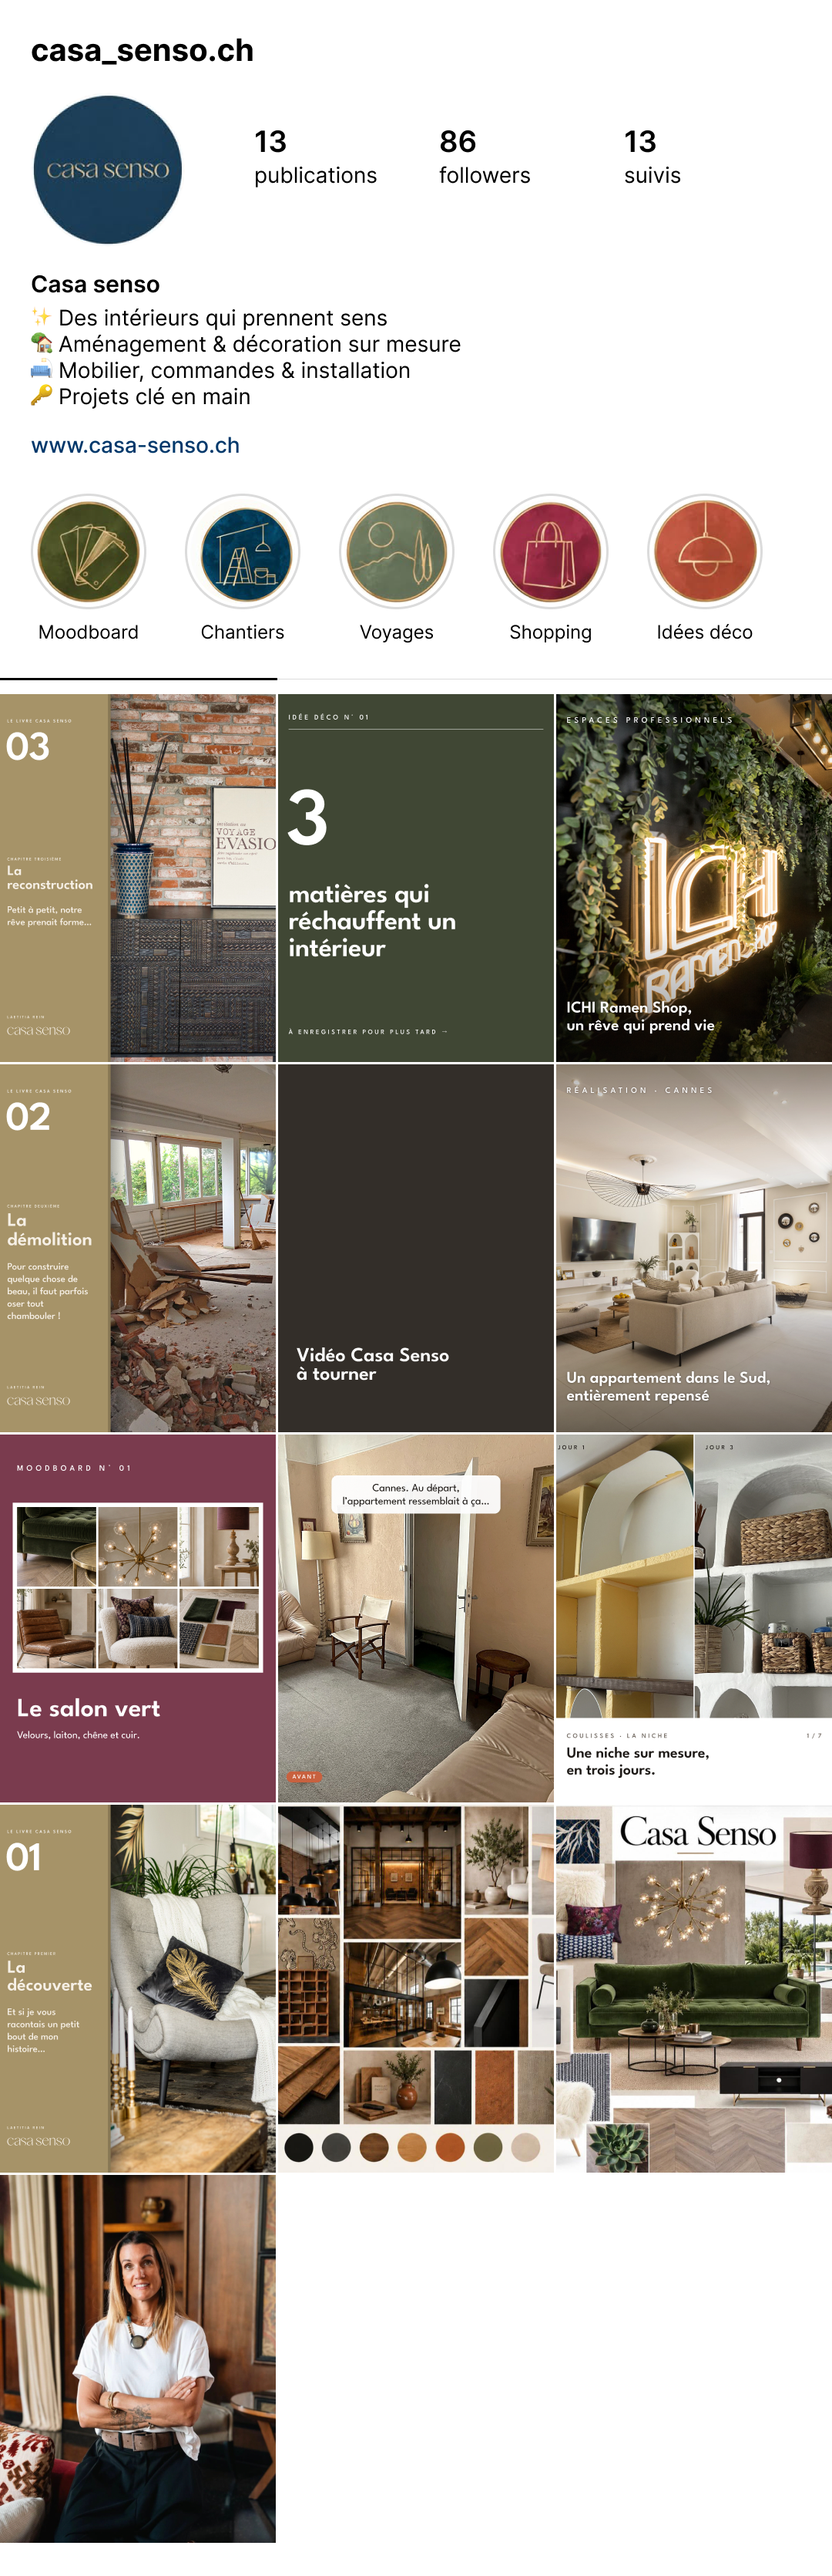
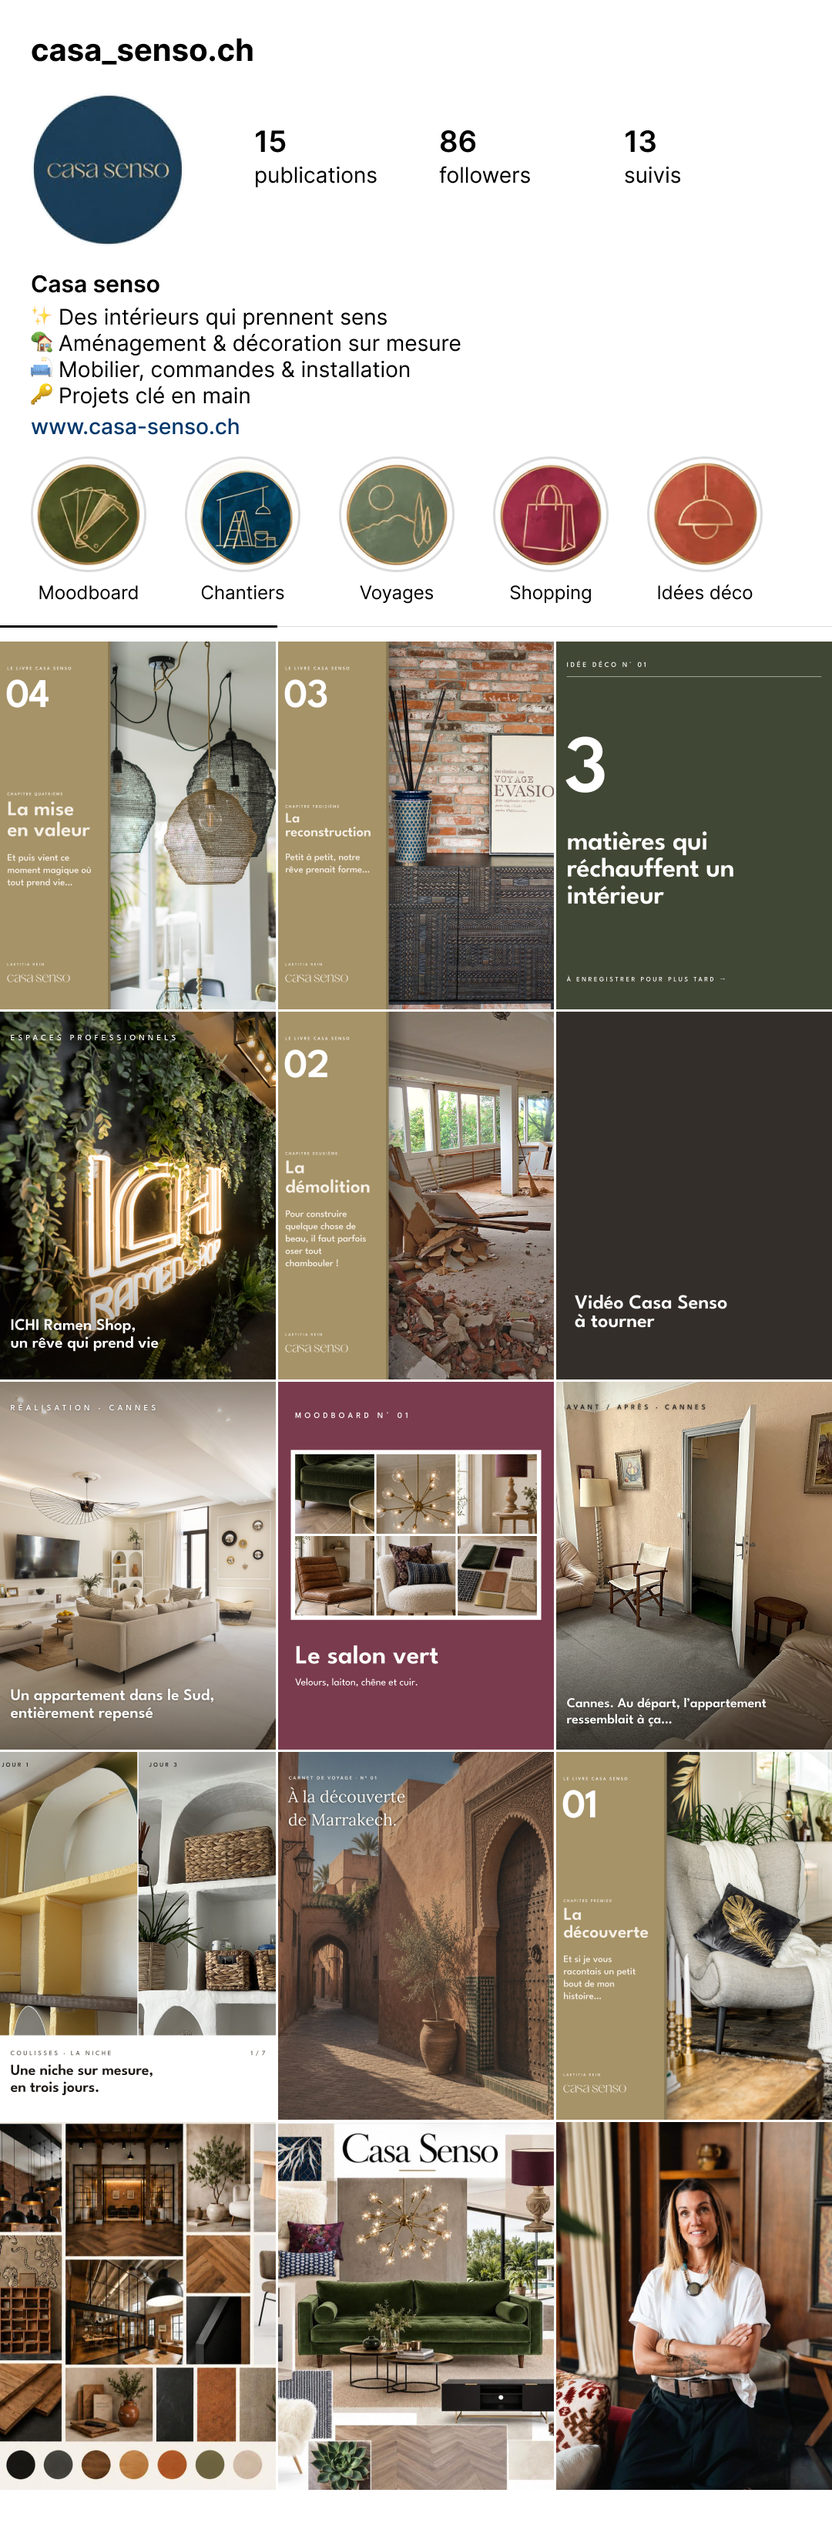
Livre : dessins par chapitre ; Avant/après récit sur photo ; Marrakech et Livre IV au calendrier ; aperçu du profil optimisé et références

diff --git a/social/2026-11-strategie-instagram/index.html b/social/2026-11-strategie-instagram/index.html
@@ -138,6 +138,7 @@ section{padding-block:80px 0}
 .agenda .s{font-size:13px; color:var(--muted)}
 @media (max-width:760px){.agenda{display:block}}
 
+#apx-tabs{margin-bottom:20px}
 .apercu{display:grid; grid-template-columns:minmax(0,420px) 1fr; gap:40px; align-items:start}
 .phone{border:10px solid var(--fg); border-radius:36px; overflow:hidden auto; max-height:min(860px,85vh); background:#fff; scrollbar-width:none}
 .phone img{display:block; width:100%}
@@ -167,7 +168,7 @@ footer{margin-top:80px; padding-top:24px; border-top:1px solid var(--line); font
     <div>
       <p class="eyebrow">Novembre 2026 → février 2027</p>
       <h1>De l’idée à la réalisation, <span>sur Instagram.</span></h1>
-      <p class="sub">8 rubriques, 11 publications prêtes, 3 par mois. Premier post le 17 novembre.</p>
+      <p class="sub">8 rubriques, 12 publications prêtes, 3 par mois. Premier post le 17 novembre.</p>
     </div>
     <div class="covers" id="covers" aria-label="Une création par rubrique"></div>
   </header>
@@ -228,13 +229,21 @@ footer{margin-top:80px; padding-top:24px; border-top:1px solid var(--line); font
   </section>
 
   <section id="apercu" aria-labelledby="t-apercu">
-    <div class="sec-head"><h2 id="t-apercu">Aperçu du profil</h2><p class="eyebrow">Après le 11 février 2027</p></div>
+    <div class="sec-head"><h2 id="t-apercu">Aperçu du profil</h2><p class="eyebrow">Après le 25 février 2027</p></div>
+    <div class="tabs" id="apx-tabs" role="tablist" aria-label="Profils à comparer"></div>
     <div class="apercu">
-      <div class="phone"><img src="img/ig-apercu.jpg" alt="Aperçu du profil Instagram casa_senso.ch avec les publications prévues" loading="lazy"></div>
+      <div class="phone" id="apx-phone"><img id="apx-img" src="img/ig-apercu.jpg" alt=""></div>
       <div class="apercu-txt">
-        <p>Les 10 publications prévues, à la suite des 3 posts déjà en ligne (octobre 2026), le plus récent en haut à gauche. Faites défiler dans le téléphone.</p>
-        <p>La grille du profil est en 3:4 : Instagram rogne les posts 4:5 sur les côtés.</p>
-        <p class="s">Avant / après : version 1 en attendant le choix. Réalisation : couverture RE-1. La vidéo du 7 janvier reste à tourner.</p>
+        <p id="apx-cap"></p>
+        <p class="eyebrow" style="margin-top:12px">Ce qu’on améliore sur son profil</p>
+        <ol class="rules">
+          <li>Le nom avec le métier : « Casa Senso · Décoration d’intérieur ». Le nom est lu par la recherche Instagram.</li>
+          <li>Une bio en 4 lignes : la promesse et le lieu, ce qu’elle fait, pour qui, comment la contacter.</li>
+          <li>Les boutons « Contacter » et « E-mail » du compte professionnel.</li>
+          <li>Des stories à la une aux couleurs des rubriques, avec les dessins au trait, sans dorure. « Shopping » est remplacé par « Réalisations » ; à garder si elle s’en sert.</li>
+          <li>Trois posts épinglés : le Livre I (qui elle est), l’Avant / après (la transformation), la Réalisation de Cannes (la preuve).</li>
+        </ol>
+        <p class="s">Grille en 3:4 : Instagram rogne les posts 4:5 sur les côtés. Faites défiler dans le téléphone. Comptes de référence : relevés le 12.11.2026, 12 derniers posts.</p>
       </div>
     </div>
   </section>
@@ -261,12 +270,12 @@ const PAT_OF = {livre:"Parcours + Trois cartes", voyage:"Raconter son parcours",
 const NAME = {livre:"Le Livre", voyage:"Voyage", aa:"Avant / après", mood:"Moodboards", real:"Réalisations", cou:"Coulisses", pro:"Espaces pros", idees:"Idées déco"};
 
 const RUBS = [
-  {id:"livre", n:"01", name:"Le Livre Casa Senso", line:"Son histoire en quatre chapitres, mise en page comme un livre.", chips:[["ok","Ses mots"],["","17 nov. · 19 janv. · 11 févr."]],
+  {id:"livre", n:"01", name:"Le Livre Casa Senso", line:"Son histoire en quatre chapitres, mise en page comme un livre.", chips:[["ok","Ses mots"],["","17 nov. · 19 janv. · 11 févr. · 25 févr."]],
    tabs:[["Chapitre I", R("livre-1",7)],["II", R("livre-2",7)],["III", R("livre-3",8)],["IV", R("livre-4",8)]]},
-  {id:"voyage", n:"02", name:"Inspiration et voyage", line:"Un carnet par lieu, photos plein cadre et un court texte.", chips:[["wait","Textes à valider"],["","Réserve"]],
+  {id:"voyage", n:"02", name:"Inspiration et voyage", line:"Un carnet par lieu, photos plein cadre et un court texte.", chips:[["wait","Textes à valider"],["","24 nov."]],
    tabs:[["Marrakech", R("voyage",7)]]},
-  {id:"aa", n:"03", name:"Avant / après", line:"Une transformation en étapes. 4 versions : une à choisir.", chips:[["wait","Textes à valider"],["","3 déc."]],
-   tabs:[["1 · Version complète", R("aa",9)],["2 · Écran partagé", R("aa-var",12).slice(0,4)],["3 · Récit sur photo", R("aa-var",12).slice(4,8)],["4 · House & Garden", R("aa-var",12).slice(8,12)]]},
+  {id:"aa", n:"03", name:"Avant / après", line:"Une transformation en étapes, racontée sur la photo.", chips:[["wait","Textes à valider"],["","3 déc."]],
+   tabs:[["Cannes", R("ar",9)]]},
   {id:"mood", n:"04", name:"Moodboards", line:"Sa planche, la palette, puis les pièces en gros plan.", chips:[["wait","Titres à valider"],["","15 déc."]],
    tabs:[["Le salon vert", R("mood2",9)]]},
   {id:"real", n:"05", name:"Réalisations", line:"La visite d’un projet terminé.", chips:[["ok","Prêt"],["","22 déc."]],
@@ -280,7 +289,7 @@ const RUBS = [
 ];
 
 // Couvertures
-["img/livre-1-01.jpg","img/real-cov-03.jpg","img/mood2-01.jpg","img/aa-var-09.jpg","img/voyage-01.jpg","img/ideesB-01.jpg","img/pro-01.jpg","img/cob-01.jpg"].forEach((s, i) => $("#covers").append(h("img", {src:s, alt:""})));
+["img/livre-1-01.jpg","img/real-cov-03.jpg","img/mood2-01.jpg","img/ar-01.jpg","img/voyage-01.jpg","img/ideesB-01.jpg","img/pro-01.jpg","img/cob-01.jpg"].forEach((s, i) => $("#covers").append(h("img", {src:s, alt:""})));
 
 // Visionneuse
 let LB = {list:[], i:0, cap:""};
@@ -315,8 +324,8 @@ const PATS = [
    d:"Elle parle à la première personne, sur ses propres photos. On suit une histoire, pas une publicité : c'est ce qui crée l'attachement."},
   {k:"cartes", n:"Trois cartes, une couleur", m:"Modèle House & Garden", r:["livre","mood","idees"], list:R("livre-1",7),
    d:"Trois cartes de couleur pleine qui reviennent toujours au même endroit du carrousel. Dans le fil, on reconnaît la rubrique avant de lire."},
-  {k:"aa", n:"Avant, pendant, après", m:"Modèle Emily Henderson", r:["aa"], list:R("aa",9),
-   d:"Une étape par slide, une phrase parlée dans une bulle. On fait glisser pour voir la suite : la transformation se vit dans l'ordre."},
+  {k:"aa", n:"Avant, pendant, après", m:"Récit sur photo (modèle Amber Lewis)", r:["aa"], list:R("ar",9),
+   d:"Une étape par slide, une phrase courte posée sur la photo, dans l’ordre du chantier. Puis une carte de fin avec un dessin, le logo et l’appel à écrire."},
   {k:"visite", n:"Visite plein cadre", m:"Modèle House & Garden", r:["real"], list:R("real",9),
    d:"Le titre sur la couverture, puis les pièces sans aucun texte. Les photos font le travail ; une seule carte citation pour la voix du client."},
   {k:"planche", n:"La planche décortiquée", m:"Modèle House & Garden", r:["mood"], list:R("mood2",9),
@@ -335,6 +344,21 @@ PATS.forEach(p => $("#pats").append(h("article", {class:"pat" + (p.later ? " lat
   p.r.length ? h("div", {class:"tags"}, p.r.map(k => h("span", {class:"tag"}, h("i", {style:`background:${COL[k]}`}), NAME[k]))) : null,
   p.list ? h("button", {type:"button", class:"ex", onclick:() => openLB(p.list, 0, p.n)}, "Voir le post réel ›") : null)));
 
+// Aperçu : Casa Senso et comptes de référence
+const APX = [
+  ["Casa Senso · prévu", "img/ig-apercu.jpg", "Son profil tel quel, avec les 12 publications prévues au-dessus des 3 posts déjà en ligne."],
+  ["Casa Senso · optimisé", "img/ig-optimise.jpg", "Proposition : nom, bio, boutons, stories à la une et trois posts épinglés (📌)."],
+  ["House & Garden", "img/ig-ref-houseandgarden.jpg", "@houseandgarden : modèle des cartes du Livre et des Réalisations."],
+  ["Amber Lewis", "img/ig-ref-amberinteriors.jpg", "@amberinteriors : modèle de « Raconter son parcours » et du récit sur photo."],
+  ["Emily Henderson", "img/ig-ref-em_henderson.jpg", "@em_henderson : modèle de l’Avant / après en étapes."],
+  ["Studio McGee", "img/ig-ref-studiomcgee.jpg", "@studiomcgee : modèle de la fiche projet des Espaces pros."],
+  ["Apartamento", "img/ig-ref-apartamentomagazine.jpg", "@apartamentomagazine : modèle de la « Légende blanche » des Coulisses."],
+  ["Dorothée Meilichzon", "img/ig-ref-dorotheemeilichzon.jpg", "@dorotheemeilichzon : premier modèle des Coulisses."]];
+function showApx(i){ $("#apx-img").src = APX[i][1]; $("#apx-img").alt = "Aperçu du profil : " + APX[i][0]; $("#apx-cap").textContent = APX[i][2]; $("#apx-phone").scrollTop = 0;
+  [...$("#apx-tabs").children].forEach((b, j) => b.setAttribute("aria-selected", String(j === i))); }
+APX.forEach(([l], i) => $("#apx-tabs").append(h("button", {type:"button", role:"tab", onclick:() => showApx(i)}, l)));
+showApx(0);
+
 // Charte : couleurs
 [["Encre","#1E1A17"],["Papier","#F3EDE3"]].forEach(([n, x]) => $("#dots").append(h("div", {class:"dot"}, h("i", {style:`background:${x}; box-shadow:inset 0 0 0 1px var(--line)`}), n, h("small", {}, x))));
 Object.keys(HEX).forEach(k => $("#dots").append(h("div", {class:"dot"}, h("i", {style:`background:${HEX[k]}`}), NAME[k], h("small", {}, HEX[k]))));
@@ -342,21 +366,23 @@ Object.keys(HEX).forEach(k => $("#dots").append(h("div", {class:"dot"}, h("i", {
 // Calendrier
 const EVENTS = [
   {d:"2026-11-17", k:"livre", t:"Le Livre · Chapitre I", img:"img/livre-1-01.jpg", list:R("livre-1",7)},
+  {d:"2026-11-24", k:"voyage", t:"Carnet de voyage · Marrakech", img:"img/voyage-01.jpg", list:R("voyage",7)},
   {d:"2026-11-30", k:"cou", t:"Coulisses · La niche", img:"img/cob-01.jpg", list:R("cob",7)},
-  {d:"2026-12-03", k:"aa", t:"Avant / après · Cannes", img:"img/aa-01.jpg", list:R("aa",9)},
+  {d:"2026-12-03", k:"aa", t:"Avant / après · Cannes", img:"img/ar-01.jpg", list:R("ar",9)},
   {d:"2026-12-15", k:"mood", t:"Moodboard · Le salon vert", img:"img/mood2-01.jpg", list:R("mood2",9)},
   {d:"2026-12-22", k:"real", t:"Réalisation · Cannes", img:"img/real-01.jpg", list:R("real",9)},
   {d:"2027-01-07", k:"cou", t:"Vidéo Casa Senso (à tourner)", flag:true},
   {d:"2027-01-19", k:"livre", t:"Le Livre · Chapitre II", img:"img/livre-2-01.jpg", list:R("livre-2",7)},
   {d:"2027-01-26", k:"pro", t:"Espace pro · ICHI", img:"img/pro-01.jpg", list:R("pro",9), flag:true},
   {d:"2027-02-04", k:"idees", t:"Idées déco · 3 matières", img:"img/ideesB-01.jpg", list:R("ideesB",6)},
-  {d:"2027-02-11", k:"livre", t:"Le Livre · Chapitre III", img:"img/livre-3-01.jpg", list:R("livre-3",8)}
+  {d:"2027-02-11", k:"livre", t:"Le Livre · Chapitre III", img:"img/livre-3-01.jpg", list:R("livre-3",8)},
+  {d:"2027-02-25", k:"livre", t:"Le Livre · Chapitre IV", img:"img/livre-4-01.jpg", list:R("livre-4",8)}
 ];
 const MONTHS = [[2026,10],[2026,11],[2027,0],[2027,1]];
 const TODAY = new Date(2026, 10, 13);
 let mi = 0;
 ["lun","mar","mer","jeu","ven","sam","dim"].forEach(d => $("#dow").append(h("div", {class:"dow"}, d)));
-["livre","aa","mood","real","cou","pro","idees"].forEach(k => $("#legend").append(h("span", {}, h("i", {style:`background:${COL[k]}`}), NAME[k])));
+["livre","voyage","aa","mood","real","cou","pro","idees"].forEach(k => $("#legend").append(h("span", {}, h("i", {style:`background:${COL[k]}`}), NAME[k])));
 $("#legend").append(h("span", {}, h("i", {style:"border:2px dashed var(--warn); background:transparent"}), "À débloquer"));
 const pd = s => { const [a, b, c] = s.split("-").map(Number); return new Date(a, b - 1, c); };
 EVENTS.forEach(e => e.date = pd(e.d));

diff --git a/outputs/batches/CASASENSO-patterns-mockups-20261113/compose.py b/outputs/batches/CASASENSO-patterns-mockups-20261113/compose.py
@@ -5,7 +5,7 @@ B, I = sys.argv[1], sys.argv[2]
 SETS = {
  "parcours":  ["livre-1-04","voyage-05","voyage-03"],
  "cartes":    ["livre-1-01","livre-1-06","livre-1-07"],
- "aa":        ["aa-02","aa-03","aa-05"],
+ "aa":        ["ar-02","ar-05","ar-09"],
  "visite":    ["real-01","real-03","real-04"],
  "planche":   ["mood2-01","mood2-03","mood2-04"],
  "coulisses": ["cob-01","cob-03","cob-06"],

diff --git a/docs/plan-contenus-3-mois.md b/docs/plan-contenus-3-mois.md
@@ -24,6 +24,7 @@ Rythme : 3 publications par mois, mardi ou jeudi, + 1 série de stories par mois
 | Date | Rubrique | Publication | État |
 |---|---|---|---|
 | Mar. 17 nov. | Le Livre | Chapitre I · La découverte | Prêt |
+| Mar. 24 nov. | Voyage | Carnet N° 01 · Marrakech | Prêt, textes à valider |
 | Lun. 30 nov. | Coulisses | La niche (post, 7 slides) | Prêt, textes à valider |
 | Jeu. 3 déc. | Avant / après | Cannes | Prêt, bulles à valider |
 | Mar. 15 déc. | Moodboards | Le salon vert | Prêt, titres à valider |
@@ -33,10 +34,11 @@ Rythme : 3 publications par mois, mardi ou jeudi, + 1 série de stories par mois
 | Mar. 26 janv. | Espaces pros | ICHI Ramen Shop | Prêt, accord du restaurant à obtenir |
 | Jeu. 4 févr. | Idées déco | 3 matières | Prêt, conseils à réécrire par elle |
 | Jeu. 11 févr. | Le Livre | Chapitre III · La reconstruction | Prêt |
+| Jeu. 25 févr. | Le Livre | Chapitre IV · La mise en valeur | Prêt |
 
 « La niche » passe en post le 30 nov. (sa version stories reste en réserve). Ensuite une série par mois **seulement si** Laetitia envoie des photos de chantier.
 
-En réserve (remplace une date si un post bloque) : Livre IV, Carnet de voyage Marrakech, La niche en stories, variantes Avant / après.
+En réserve : La niche en stories, couvertures alternatives de la Réalisation. Le Livre IV et le Carnet Marrakech sont maintenant au calendrier (13.11).
 
 ## 3. Ce qui est tenable, ce qui ne l'est pas
 

diff --git a/docs/decisions-strategie.md b/docs/decisions-strategie.md
@@ -193,3 +193,10 @@ Format : date · décision · raison · remplace · statut · source.
 - **Remplace** : variantes A et C des Coulisses, stories et post v1 ; Idées déco bleu et direction A ; moodboard v1 (tous déplacés dans la page Archives du Figma).
 - **Statut** : décidé ; Avant / après (versions 1 à 4) et couverture de la Réalisation encore à choisir.
 - **Source** : Diego, conversation du 13.11.2026.
+
+## 2026-11-13 · Livre en architecture commune, Avant / après « Récit sur photo », calendrier complété, profil optimisé
+- **Décision** : chaque carte citation du Livre reçoit un dessin au trait propre au chapitre (I bâtisse, II mur démoli, III arche et truelle, IV console) ; Avant / après = « Récit sur photo », post complet de 9 slides avec carte de fin corail (dessin, logo, CTA) ; Carnet Marrakech le mar. 24 nov. et Livre IV le jeu. 25 févr. ajoutés au calendrier (12 publications) ; aperçu du profil prévu et optimisé (nom avec le métier, bio en 4 lignes, boutons Contacter/E-mail, stories à la une aux couleurs des rubriques avec dessins, 3 posts épinglés) et comparaison avec 6 comptes de référence.
+- **Raison** : retours de Diego du 13.11.
+- **Remplace** : Avant / après à bulles (Archives) ; Livre IV et Marrakech « en réserve ».
+- **Statut** : décidé ; bio optimisée et posts épinglés = proposition à valider avec Laetitia.
+- **Source** : Diego, conversation du 13.11.2026.

diff --git a/outputs/batches/CASASENSO-avant-apres-recit-20261113/FICHE-DE-LOT.md b/outputs/batches/CASASENSO-avant-apres-recit-20261113/FICHE-DE-LOT.md
@@ -1,0 +1,5 @@
+# Lot CASASENSO-avant-apres-recit-20261113 · statut : livré (13.11.2026)
+Demande de Diego : garder la variante « Récit sur photo » ; ajouter à la fin une slide avec une petite illustration, le logo Casa Senso et un texte CTA.
+Post Cannes, 9 slides (Figma page 02, section 130:1047, AR-1…AR-9) : mêmes photos et même ordre que AA-1…AA-8, phrase posée sur la photo ; AR-9 = carte corail #C8613F, CTA « Et chez vous, quelle pièce aimeriez-vous transformer ? » + « Écrivez-moi : studio@casa-senso.ch », dessin au trait « porte ouverte » (GPT Image 2.5, lot CASASENSO-cartes-differenciateurs-20261113), logo crème.
+Textes : tous proposés par Contrast (repris des versions précédentes). Ancienne version à bulles en Archives.
+À faire valider par Laetitia : AR-2 montre l'ancien cabinet (fauteuil d'examen).
